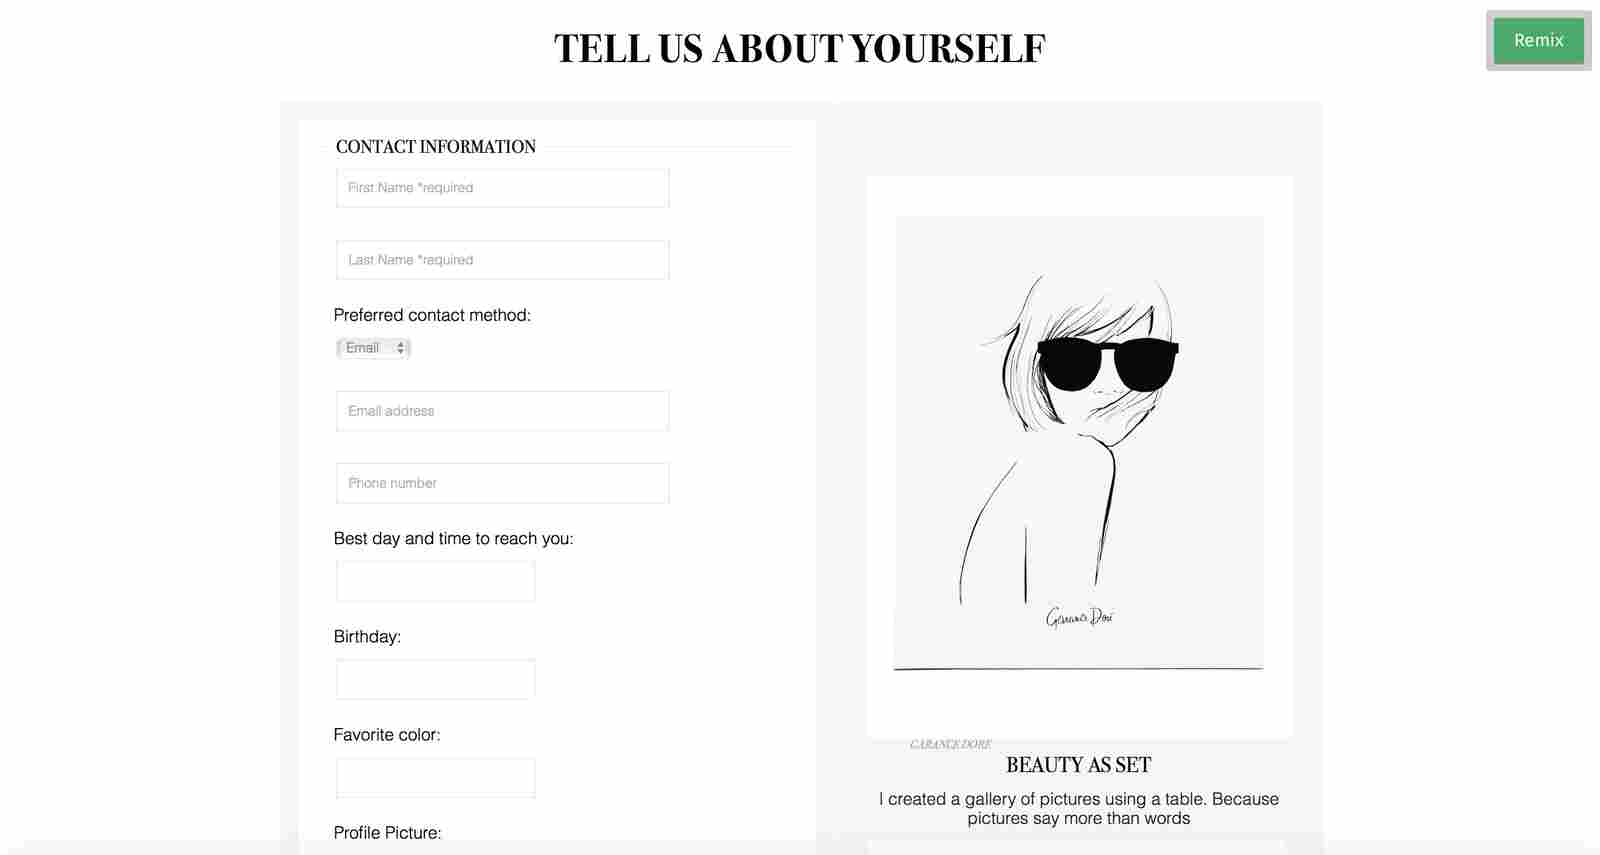
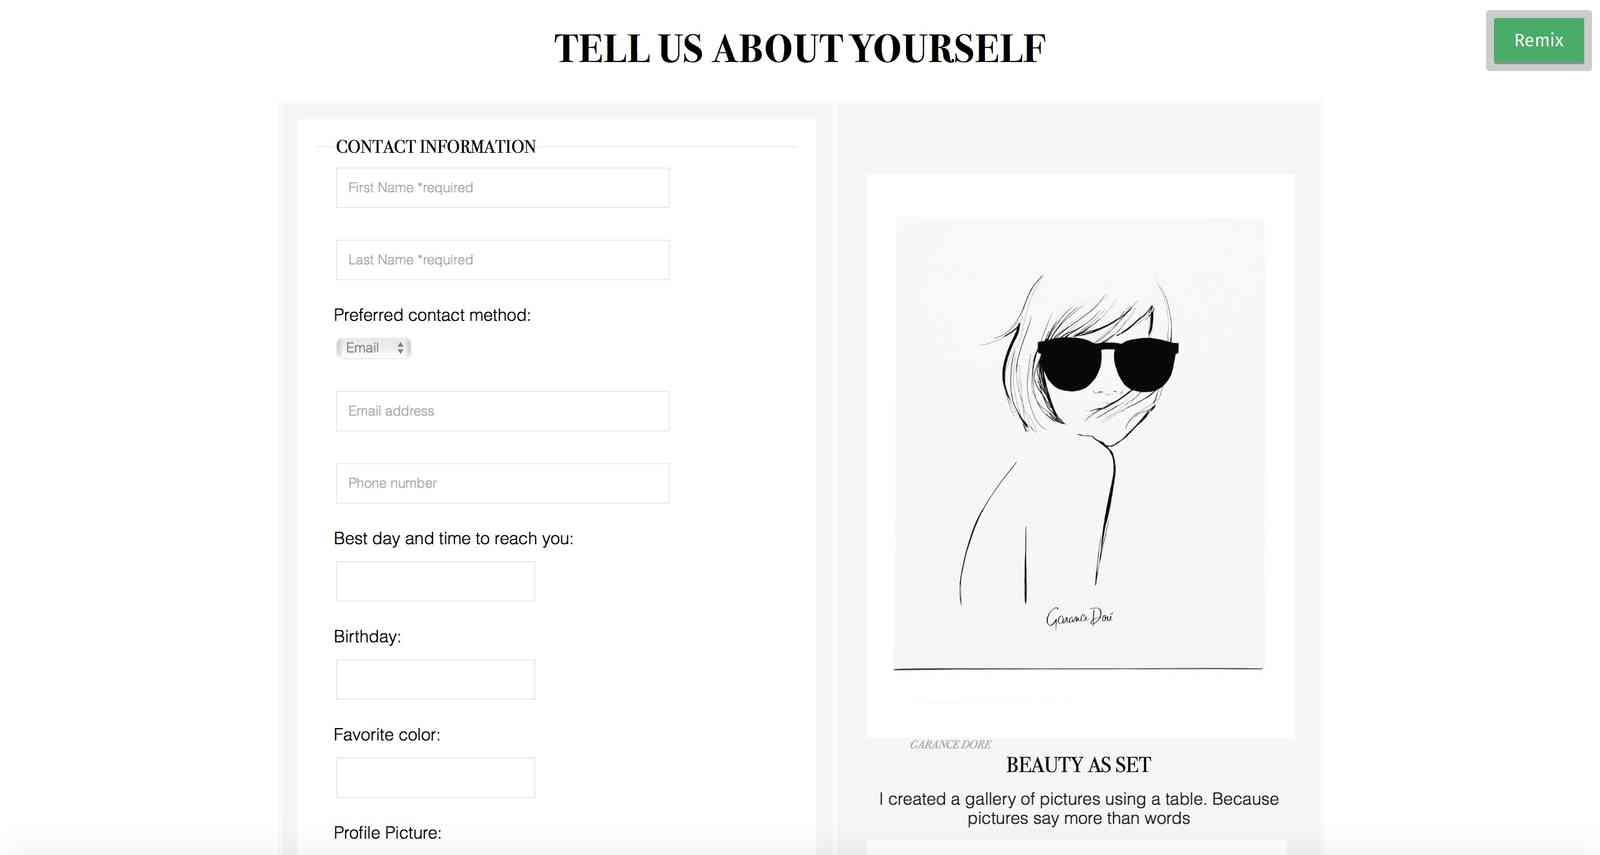
experimenting with different sizes

diff --git a/Gruntfile.js b/Gruntfile.js
@@ -20,7 +20,7 @@ var mozjpeg = require('imagemin-mozjpeg');
           sizes: [{
             width:1600,
             suffix:'_large_2x',
-            quality:15,
+            quality:30,
 
             // width:800,
             // suffix:'_large_1x', ---> Use when you need this size -- it is one si
@@ -95,7 +95,7 @@ var mozjpeg = require('imagemin-mozjpeg');
 
   "imagemagick-convert" : {
     dev:{
-      args:['images/w_media-1600_large_2x.jpg', '-sampling-factor','4:2:0', 'images/w_media-1600_large_2x.jpg']
+      args:['images/w_media-1600_large_2x.jpg', '-sampling-factor','2:1:0', 'images/w_media-1600_large_2x.jpg']
     }
   },
 
